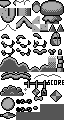
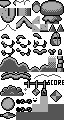
Some tweaking & bouncy static slimes

Changed region(s): [[0.5, 0.8, 0.75, 0.95]]

diff --git a/src/game/touchableobject.ts b/src/game/touchableobject.ts
@@ -72,6 +72,7 @@ export class TouchableObject extends GameObject {
 
         switch (this.type) {
 
+        case TouchableType.StaticBall:
         case TouchableType.Gem:
 
             this.specialTimer = (this.specialTimer + FLOAT_SPEED*event.tick) % (Math.PI*2);
@@ -94,6 +95,11 @@ export class TouchableObject extends GameObject {
         this.speed.zero();
         this.target.zero();
 
+        // TEMP
+        if (type != TouchableType.Gem) {
+
+            type = TouchableType.StaticBall;
+        }
         this.type = type;
 
         this.exist = true;
@@ -101,6 +107,8 @@ export class TouchableObject extends GameObject {
 
         const w = type == TouchableType.Gem ? 12 : 8;
         this.hitbox = new Vector(w, w);
+
+        this.specialTimer = (((x / 16) | 0) % 2)*Math.PI;
     }
 
 
@@ -114,8 +122,8 @@ export class TouchableObject extends GameObject {
 
         const bmpBase = assets.getBitmap("b");
 
-        const dx = Math.round(this.pos.x);
-        const dy = Math.round(this.pos.y);
+        let dx = Math.round(this.pos.x);
+        let dy = Math.round(this.pos.y);
         const isGem = this.type == TouchableType.Gem;
 
         let t : number;
@@ -138,18 +146,22 @@ export class TouchableObject extends GameObject {
         }
 
         const bmpBody = assets.getBitmap("b" + String(this.type-1));
-        canvas.drawBitmap(bmpBody, dx - 8, dy - 6);
 
-        // Eyes
-        canvas.drawBitmap(bmpBase, dx - 9, dy - 2, 32, 96, 16, 8);
-        canvas.fillColor("#000000");
-        for (let i = 0; i < 2; ++ i) {
+        let dw = 16;
+        let dh = 16;
+        if (this.type == TouchableType.StaticBall) {
 
-            canvas.fillRect(dx - 5 + i*4, dy, 1, 1);
+            dw = 16 + Math.max(0, Math.sin(this.specialTimer)*8);
+            dh = 16 - Math.min(0, Math.sin(this.specialTimer)*4);
+
+            // dx -= (dw - 16)/2;
+            dy -= (dh - 16);
         }
 
-        // Nose
-        canvas.drawBitmap(bmpBase, dx - 6, dy - 1, 32, 104, 8, 8);
+        canvas.drawScaledBitmap(bmpBody, dx - (dw - 16)/2 - 8, dy - 6, dw, dh);
+
+        // Face
+        canvas.drawBitmap(bmpBase, dx - 5, dy - 2, 32, 96, 8, 8);
     }
 
 

diff --git a/src/game/groundlayer.ts b/src/game/groundlayer.ts
@@ -117,8 +117,7 @@ export class GroundLayer {
 
     private updateSlope() : void {
 
-        const SLOPE_DURATION_MIN = 1;
-        const SLOPE_DURATION_MAX = 2;
+        const SLOPE_DURATION_WEIGHTS = [0.67, 0.33];
 
         this.lastSlope = this.activeSlope;
 
@@ -154,7 +153,7 @@ export class GroundLayer {
             this.typeWait >= 2 &&
             (-- this.slopeWait) <= 0) {
 
-            this.slopeDuration = Math.min(this.typeWait - 1, sampleUniform(SLOPE_DURATION_MIN, SLOPE_DURATION_MAX));
+            this.slopeDuration = Math.min(this.typeWait - 1, 1 + weightedProbability(SLOPE_DURATION_WEIGHTS));
             this.slopeWait = (this.slopeDuration - 1) + sampleUniform(SLOPE_WAIT_MIN, SLOPE_WAIT_MAX);
 
             this.activeSlope = Math.random() < 0.5 ? SlopeDirection.Up : SlopeDirection.Down;
@@ -280,6 +279,8 @@ export class GroundLayer {
 
     private updateSpikes() : boolean {
 
+        const SPIKE_COUNT_WEIGHTS = [0.67, 0.33];
+
         if (this.activeType != TileType.Surface ||
             this.activeSlope != SlopeDirection.None) {
 
@@ -295,7 +296,7 @@ export class GroundLayer {
         if ((-- this.spikeWait) <= 0) {
 
             this.spikeWait = sampleUniform(SPIKE_WAIT_MIN, SPIKE_WAIT_MAX);
-            this.spikeCount = sampleUniform(1, 2);
+            this.spikeCount = 1 + weightedProbability(SPIKE_COUNT_WEIGHTS);
 
             return true;
         }
@@ -477,10 +478,13 @@ export class GroundLayer {
                 break;
             }
 
+            // Palmtree collisions mess up everything
+            /*
             if (this.decorations[i] == Decoration.Palmtree) {
 
                 o.floorCollision(dx - 4, dy - 30, dx + 20, dy - 30, globalSpeed, event);
             }
+            */
 
             if (this.spikes[i]) {
 

diff --git a/src/renderer/canvas.ts b/src/renderer/canvas.ts
@@ -235,10 +235,11 @@ export class Canvas {
     }
 
 
-    public drawBitmap(bmp : Bitmap, 
-        dx : number = 0, dy : number = 0, 
+    public drawScaledBitmap(bmp : Bitmap, 
+        dx : number, dy : number,
+        dw : number, dh : number, 
         sx : number = 0, sy : number = 0, 
-        sw = bmp.width, sh = bmp.height,
+        sw : number = bmp.width, sh : number = bmp.height,
         flip = Flip.None) : void {
 
         const c = this.ctx;
@@ -253,6 +254,8 @@ export class Canvas {
         sh |= 0;
         dx |= 0;
         dy |= 0;
+        dw |= 0;
+        dh |= 0;
 
         if (saveState) {
 
@@ -261,23 +264,33 @@ export class Canvas {
 
         if ((flip & Flip.Horizontal) != 0) {
 
-            c.translate(sw, 0);
+            c.translate(dw, 0);
             c.scale(-1, 1);
             dx *= -1;
         }
         if ((flip & Flip.Vertical) != 0) {
 
-            c.translate(0, sh);
+            c.translate(0, dh);
             c.scale(1, -1);
             dy *= -1;
         }
 
-        c.drawImage(bmp, sx, sy, sw, sh, dx, dy, sw, sh);
+        c.drawImage(bmp, sx, sy, sw, sh, dx, dy, dw, dh);
 
         if (saveState) {
 
             c.restore();
         }
+    }
+
+
+    public drawBitmap(bmp : Bitmap, 
+        dx : number = 0, dy : number = 0, 
+        sx : number = 0, sy : number = 0, 
+        sw = bmp.width, sh = bmp.height,
+        flip = Flip.None) : void {
+
+        this.drawScaledBitmap(bmp, dx, dy, sw, sh, sx, sy, sw, sh, flip);
     }
 
 

diff --git a/src/game/assetgen.ts b/src/game/assetgen.ts
@@ -27,8 +27,8 @@ const PALETTE = [
     "005500ff", // J Dark green
     "aaffffff", // K Bright blue
     "ff0000ff", // L Bright red
-    "005555ff", // M Dark turqoise (is that a word)
-    "55aaaaff", // N Brighter version of the previous color
+    "aaffaaff", // M Bright green
+    "55aa55ff", // N Weird green
     "550055ff", // O Darkish reddish purple
     "aa55aaff", // P Brighter reddish purple
     "ffaaffff", // Q Pink
@@ -447,11 +447,11 @@ const generate = (event : ProgramEvent) : void => {
 
     const BALL_NAMES = [ "b1", "b2", "b3", "b4", "b5" ];
     const BALL_COLORS = [ 
-        ["1KN0", "1MN0", "1MN0", "1MN0"],
-        ["12G0", "1FG0", "1FG0", "1FG0"],
-        ["1KI0", "1HI0", "1HI0", "1HI0"],
-        ["18A0", "19A0", "19A0", "19A0"],
-        ["12C0", "1DC0", "1DC0", "1DC0"],
+        ["12M0", "1NM0", "1NM0", "1NM0"],
+        ["0000", "0000", "0000", "0000"],
+        ["0000", "0000", "0000", "0000"],
+        ["0000", "0000", "0000", "0000"],
+        ["0000", "0000", "0000", "0000"],
     ];
 
     const bmpBase = event.assets.getBitmap("_b");

diff --git a/src/game/game.ts b/src/game/game.ts
@@ -47,7 +47,7 @@ export class Game implements Scene {
     private cloudPos : number = 0;
 
     private globalSpeed : number = 0.0;
-    private targetSpeed : number = 2.0;
+    private targetSpeed : number = 1.0; // 2.0;
 
     private paused : boolean = false;
     private gameOverPhase : number = 0;

diff --git a/src/game/player.ts b/src/game/player.ts
@@ -469,6 +469,7 @@ export class Player extends GameObject {
         const STOMP_SPEED = -3.0;
         
         this.speed.y = STOMP_SPEED;
+        this.canFly = true;
     }
 
 
